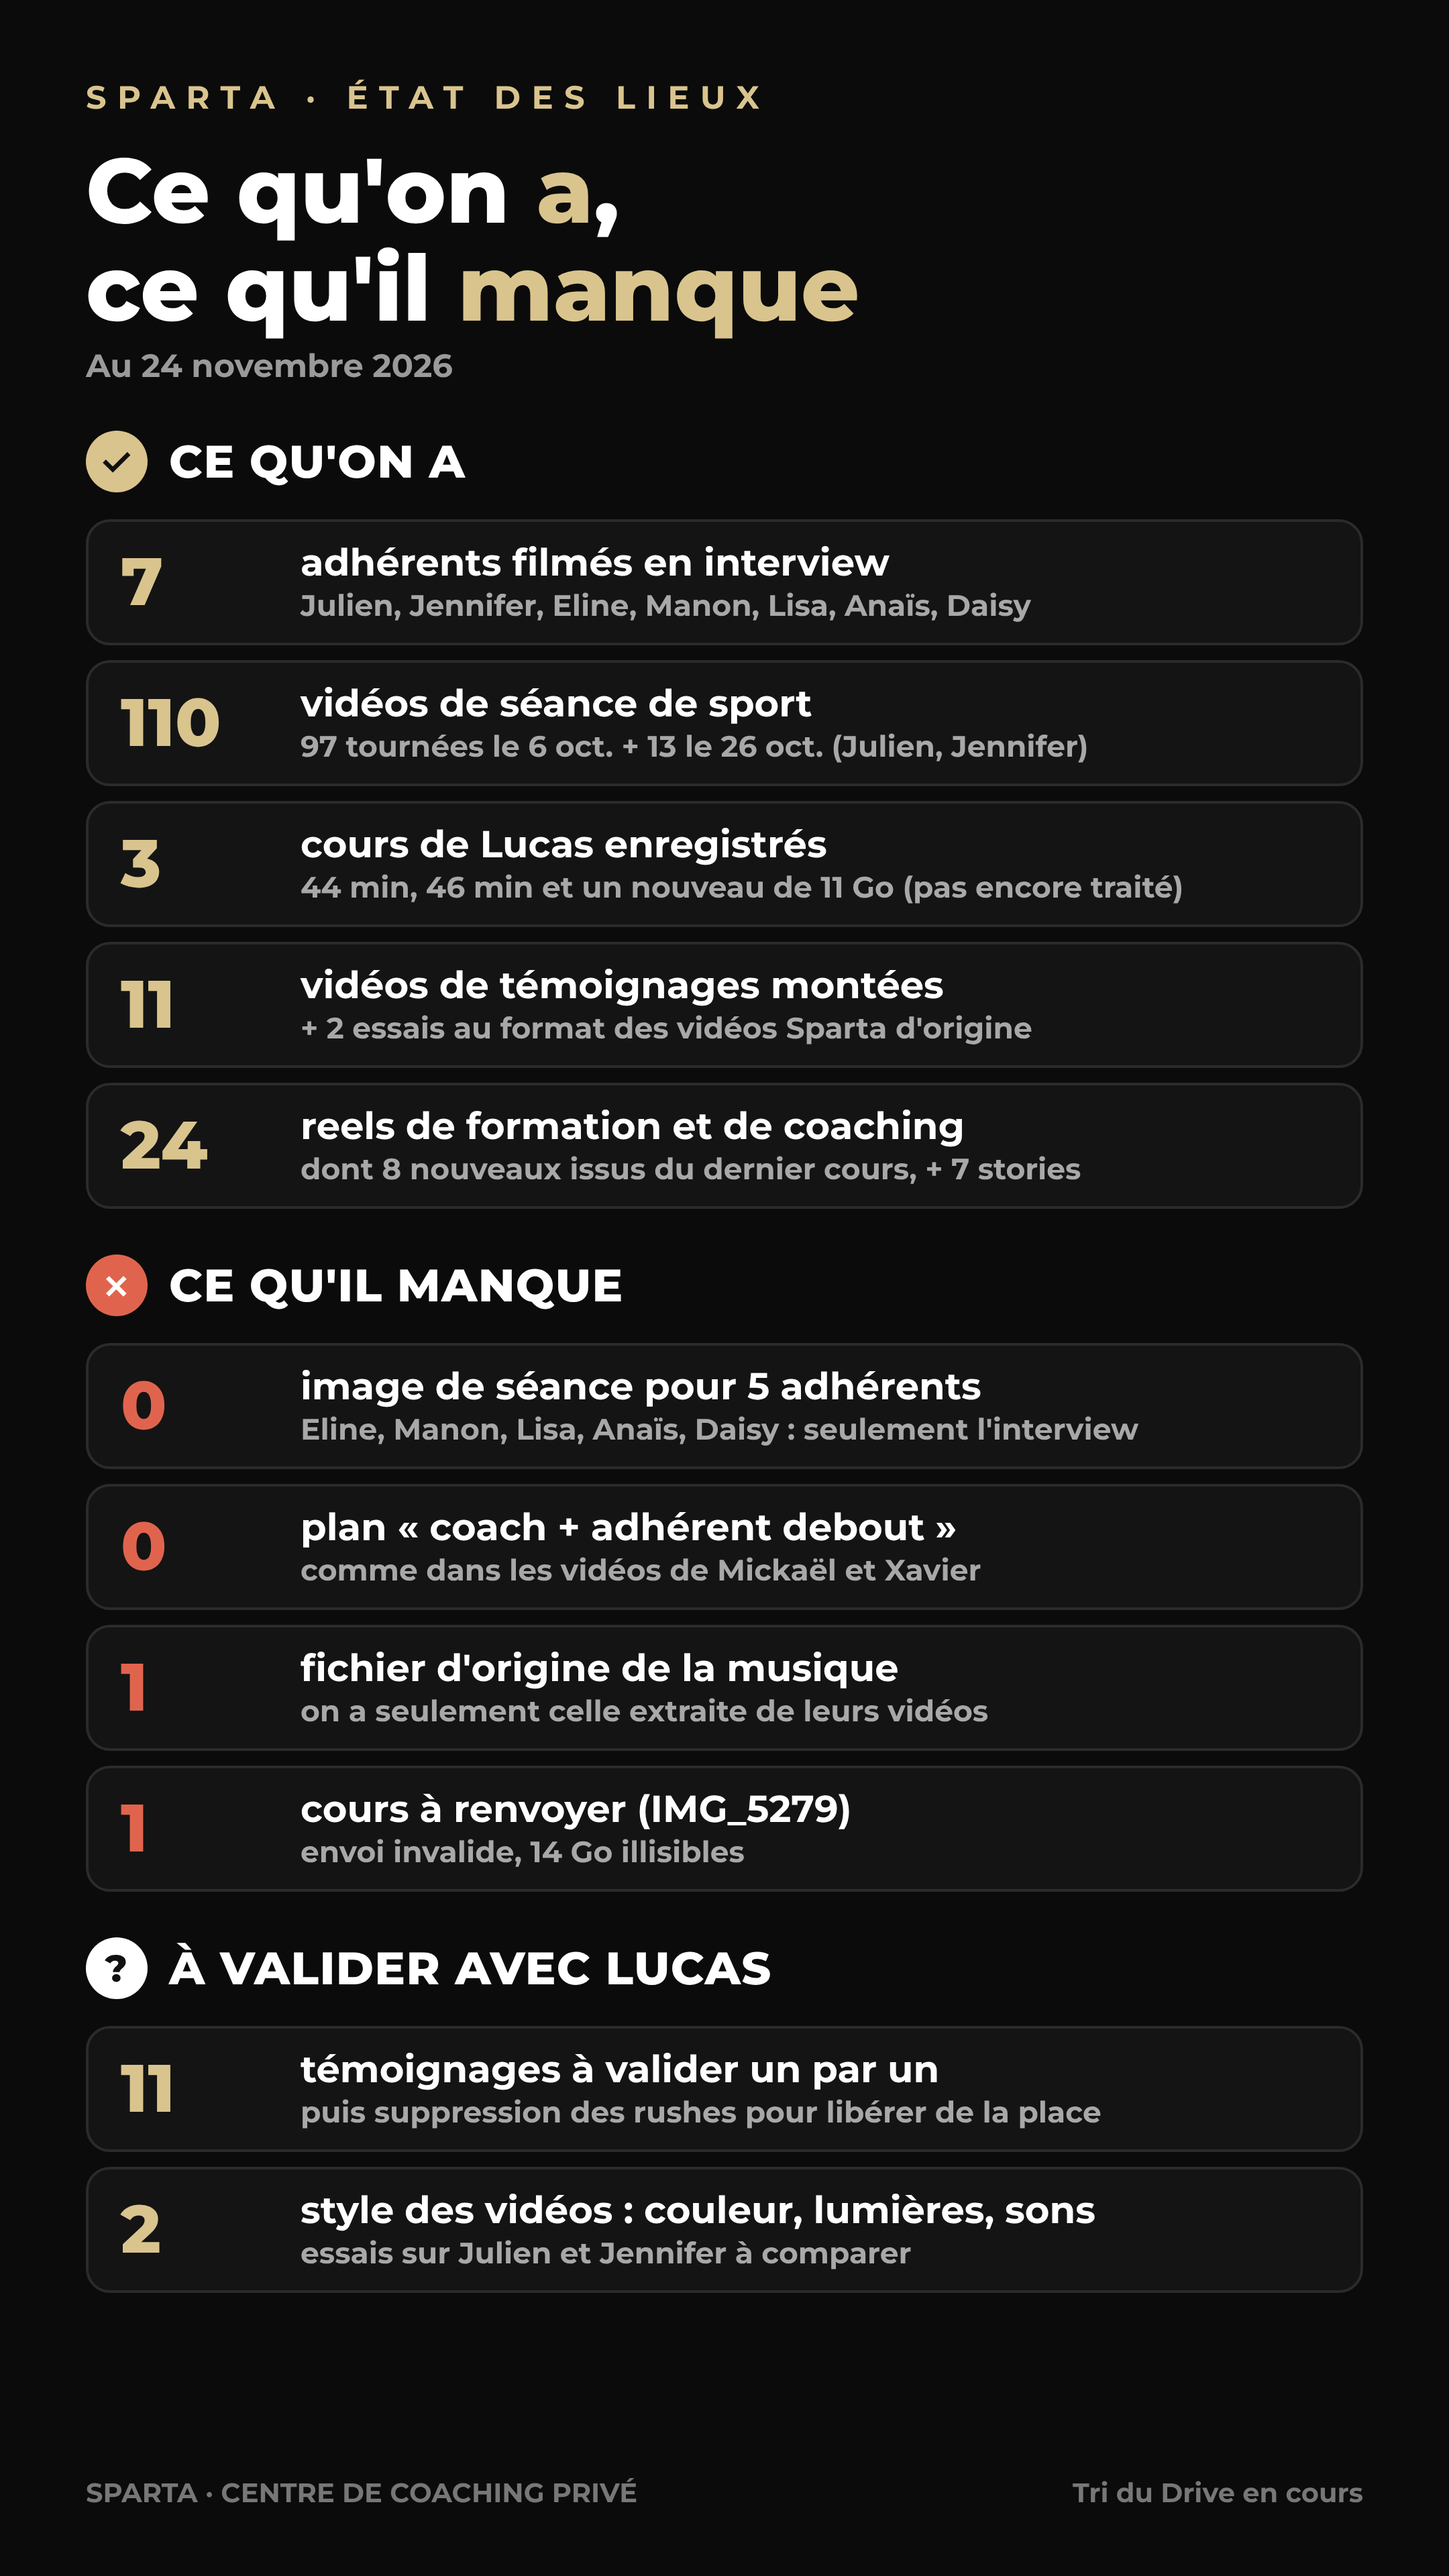
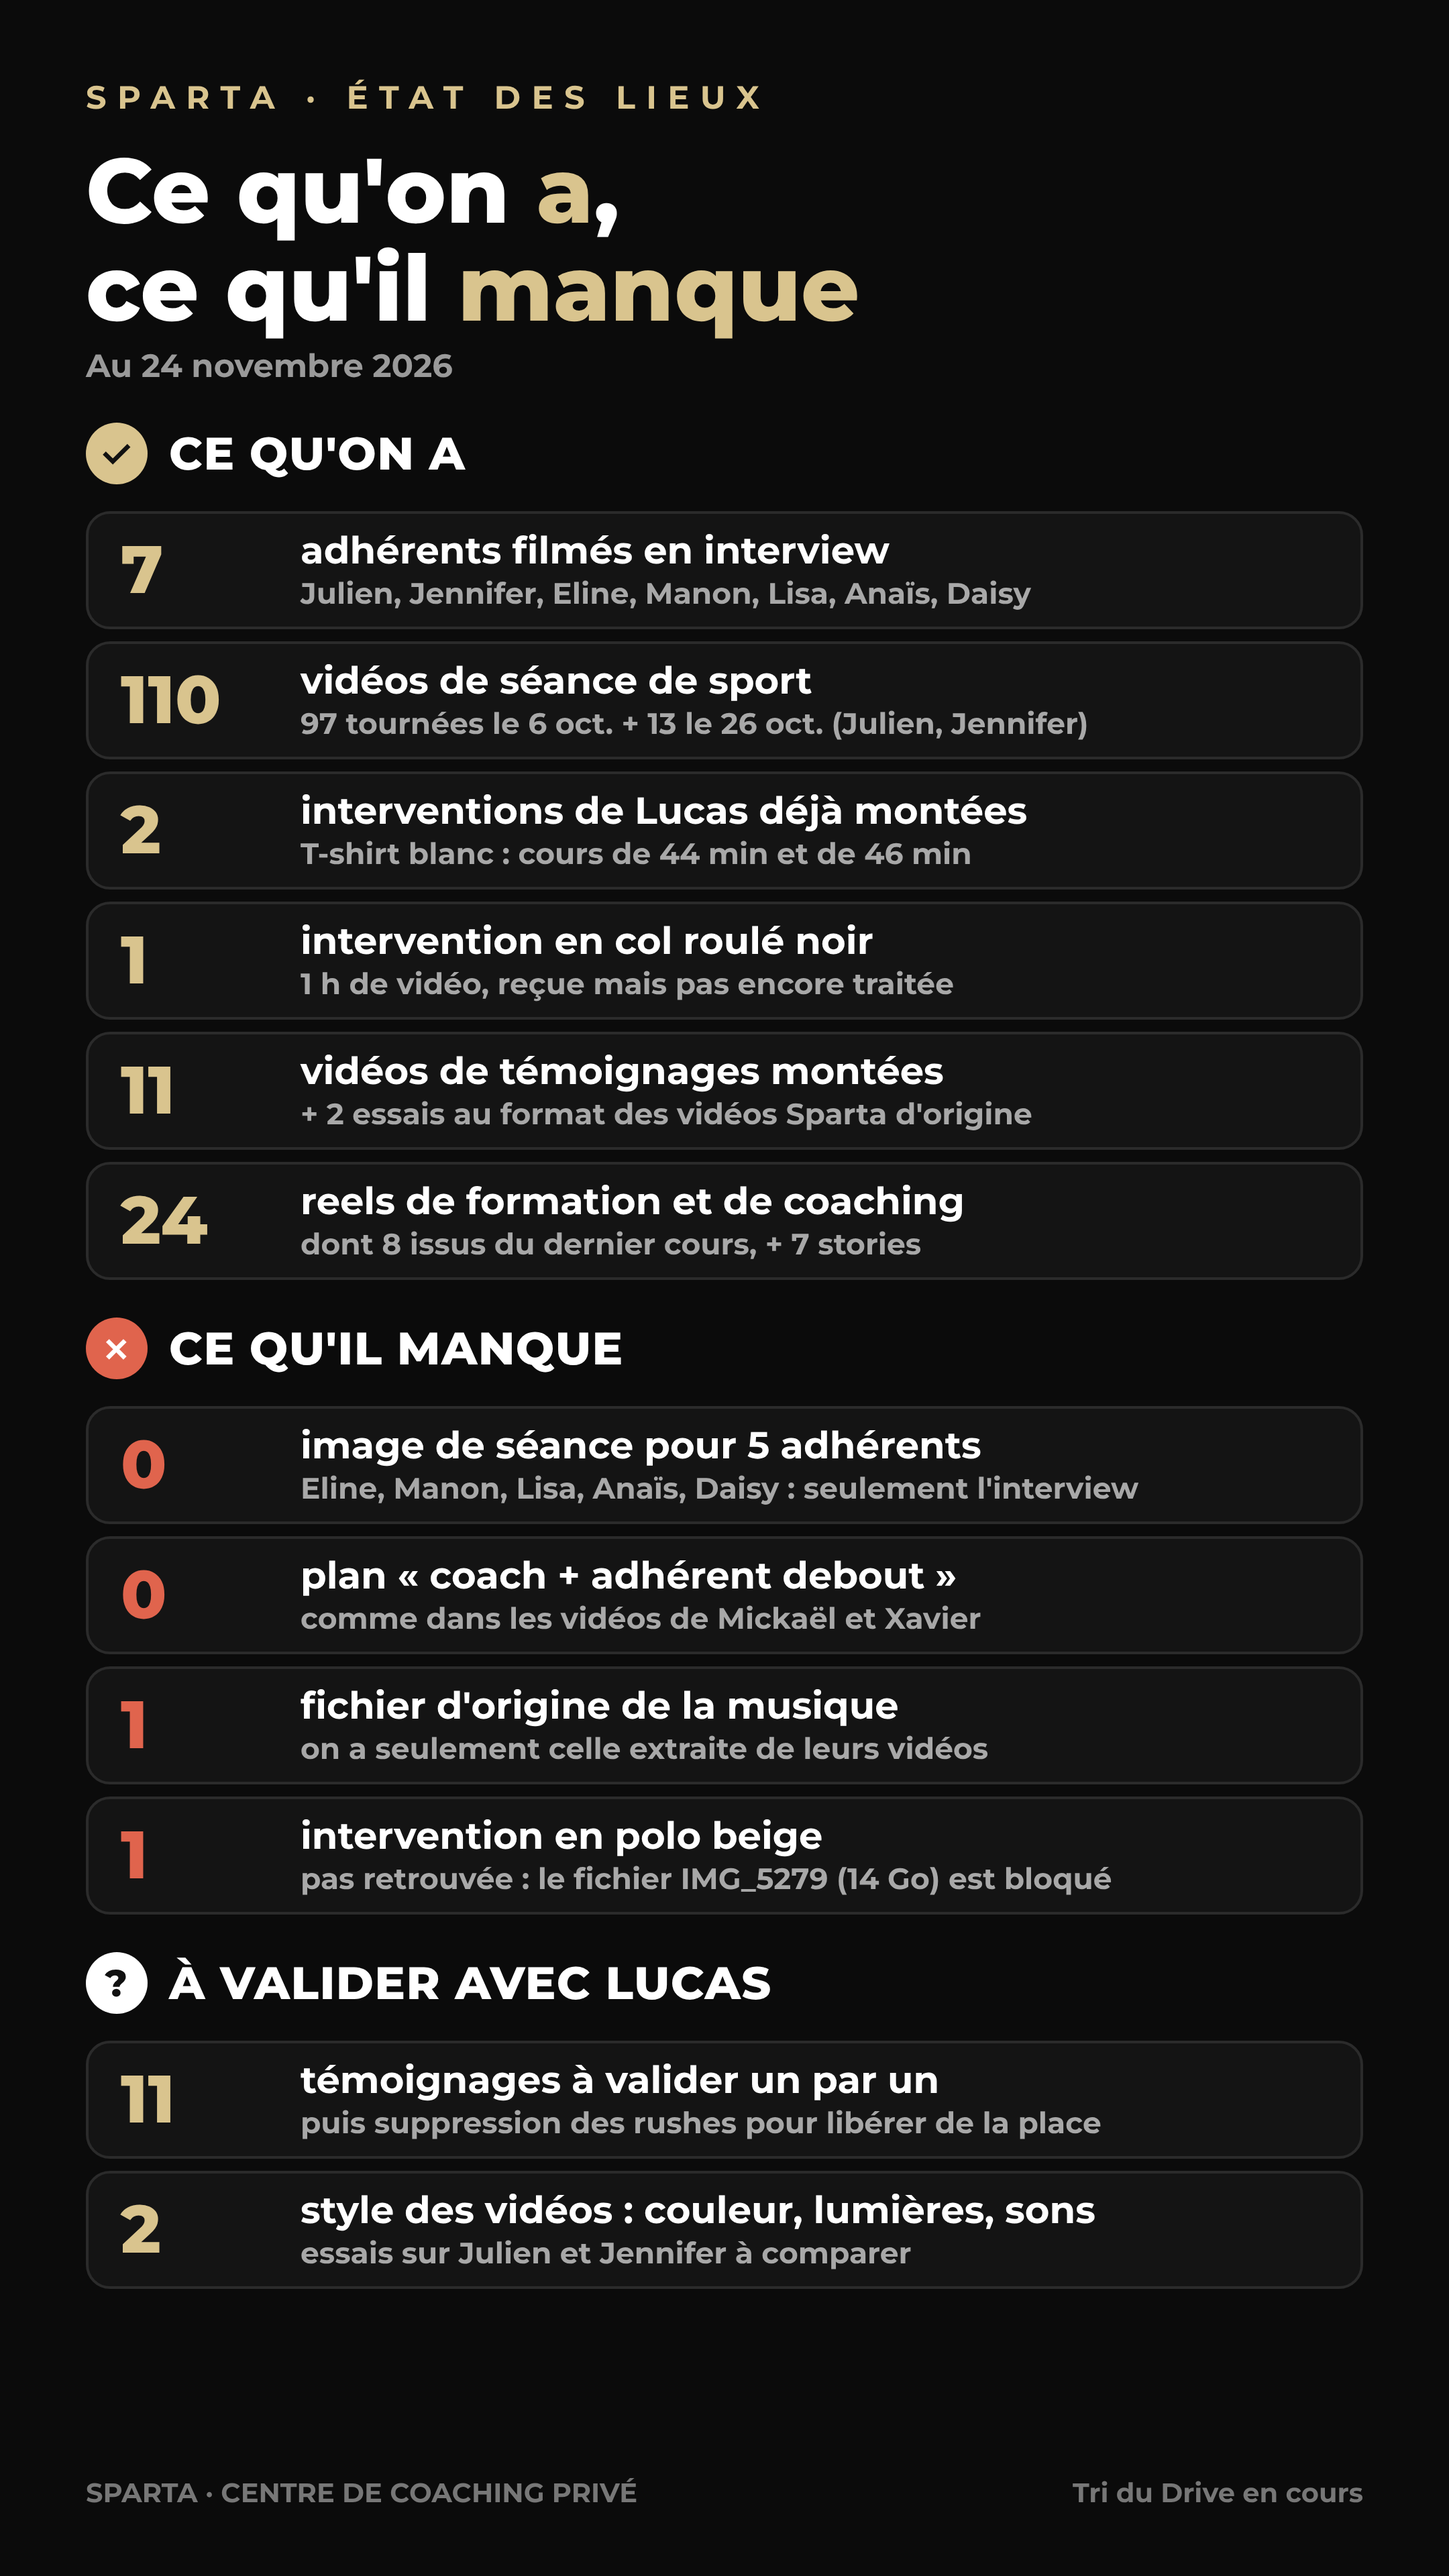
État des lieux : 3 interventions de Lucas ; script de transcription IMG_5333
Claude-Session: https://claude.ai/code/session_01FLDoQ5Tih79LaBnUSmsYLW

Changed region(s): [[0.062, 0.1562, 0.7755, 0.8438]]

diff --git a/work/drive/etat_des_lieux.html b/work/drive/etat_des_lieux.html
@@ -7,12 +7,12 @@ body{width:1080px;height:1920px;background:#0b0b0b;color:#fff;font-family:M,sans
 h1{font-size:68px;line-height:1.08;margin:18px 0 6px;font-weight:800}
 h1 b{color:#D9C48E}
 .date{color:#9a9a9a;font-size:24px;font-weight:700}
-.sec{margin-top:34px}
+.sec{margin-top:28px}
 .sec h2{font-size:34px;font-weight:800;letter-spacing:.02em;margin-bottom:20px;display:flex;align-items:center;gap:16px}
 .pill{width:46px;height:46px;border-radius:50%;display:flex;align-items:center;justify-content:center;font-size:28px;background:#D9C48E;color:#111}
 .no .pill{background:#e0644d;color:#fff}
 .mid .pill{background:#fff;color:#111}
-.row{display:flex;align-items:center;gap:22px;padding:13px 24px;border:2px solid #2b2b2b;border-radius:18px;margin-bottom:11px;background:#141414}
+.row{display:flex;align-items:center;gap:22px;padding:10px 24px;border:2px solid #2b2b2b;border-radius:18px;margin-bottom:9px;background:#141414}
 .n{font-size:50px;font-weight:800;color:#D9C48E;min-width:112px}
 .no .n{color:#e0644d}
 .t{font-size:28px;font-weight:700;line-height:1.22}
@@ -26,16 +26,17 @@ h1 b{color:#D9C48E}
 <div class="sec"><h2><span class="pill">✓</span>CE QU'ON A</h2>
  <div class="row"><div class="n">7</div><div class="t">adhérents filmés en interview<small>Julien, Jennifer, Eline, Manon, Lisa, Anaïs, Daisy</small></div></div>
  <div class="row"><div class="n">110</div><div class="t">vidéos de séance de sport<small>97 tournées le 6 oct. + 13 le 26 oct. (Julien, Jennifer)</small></div></div>
- <div class="row"><div class="n">3</div><div class="t">cours de Lucas enregistrés<small>44 min, 46 min et un nouveau de 11 Go (pas encore traité)</small></div></div>
+ <div class="row"><div class="n">2</div><div class="t">interventions de Lucas déjà montées<small>T-shirt blanc : cours de 44 min et de 46 min</small></div></div>
+ <div class="row"><div class="n">1</div><div class="t">intervention en col roulé noir<small>1 h de vidéo, reçue mais pas encore traitée</small></div></div>
  <div class="row"><div class="n">11</div><div class="t">vidéos de témoignages montées<small>+ 2 essais au format des vidéos Sparta d'origine</small></div></div>
- <div class="row"><div class="n">24</div><div class="t">reels de formation et de coaching<small>dont 8 nouveaux issus du dernier cours, + 7 stories</small></div></div>
+ <div class="row"><div class="n">24</div><div class="t">reels de formation et de coaching<small>dont 8 issus du dernier cours, + 7 stories</small></div></div>
 </div>
 
 <div class="sec no"><h2><span class="pill">✗</span>CE QU'IL MANQUE</h2>
  <div class="row"><div class="n">0</div><div class="t">image de séance pour 5 adhérents<small>Eline, Manon, Lisa, Anaïs, Daisy : seulement l'interview</small></div></div>
  <div class="row"><div class="n">0</div><div class="t">plan « coach + adhérent debout »<small>comme dans les vidéos de Mickaël et Xavier</small></div></div>
  <div class="row"><div class="n">1</div><div class="t">fichier d'origine de la musique<small>on a seulement celle extraite de leurs vidéos</small></div></div>
- <div class="row"><div class="n">1</div><div class="t">cours à renvoyer (IMG_5279)<small>envoi invalide, 14 Go illisibles</small></div></div>
+ <div class="row"><div class="n">1</div><div class="t">intervention en polo beige<small>pas retrouvée : le fichier IMG_5279 (14 Go) est bloqué</small></div></div>
 </div>
 
 <div class="sec mid"><h2><span class="pill">?</span>À VALIDER AVEC LUCAS</h2>
